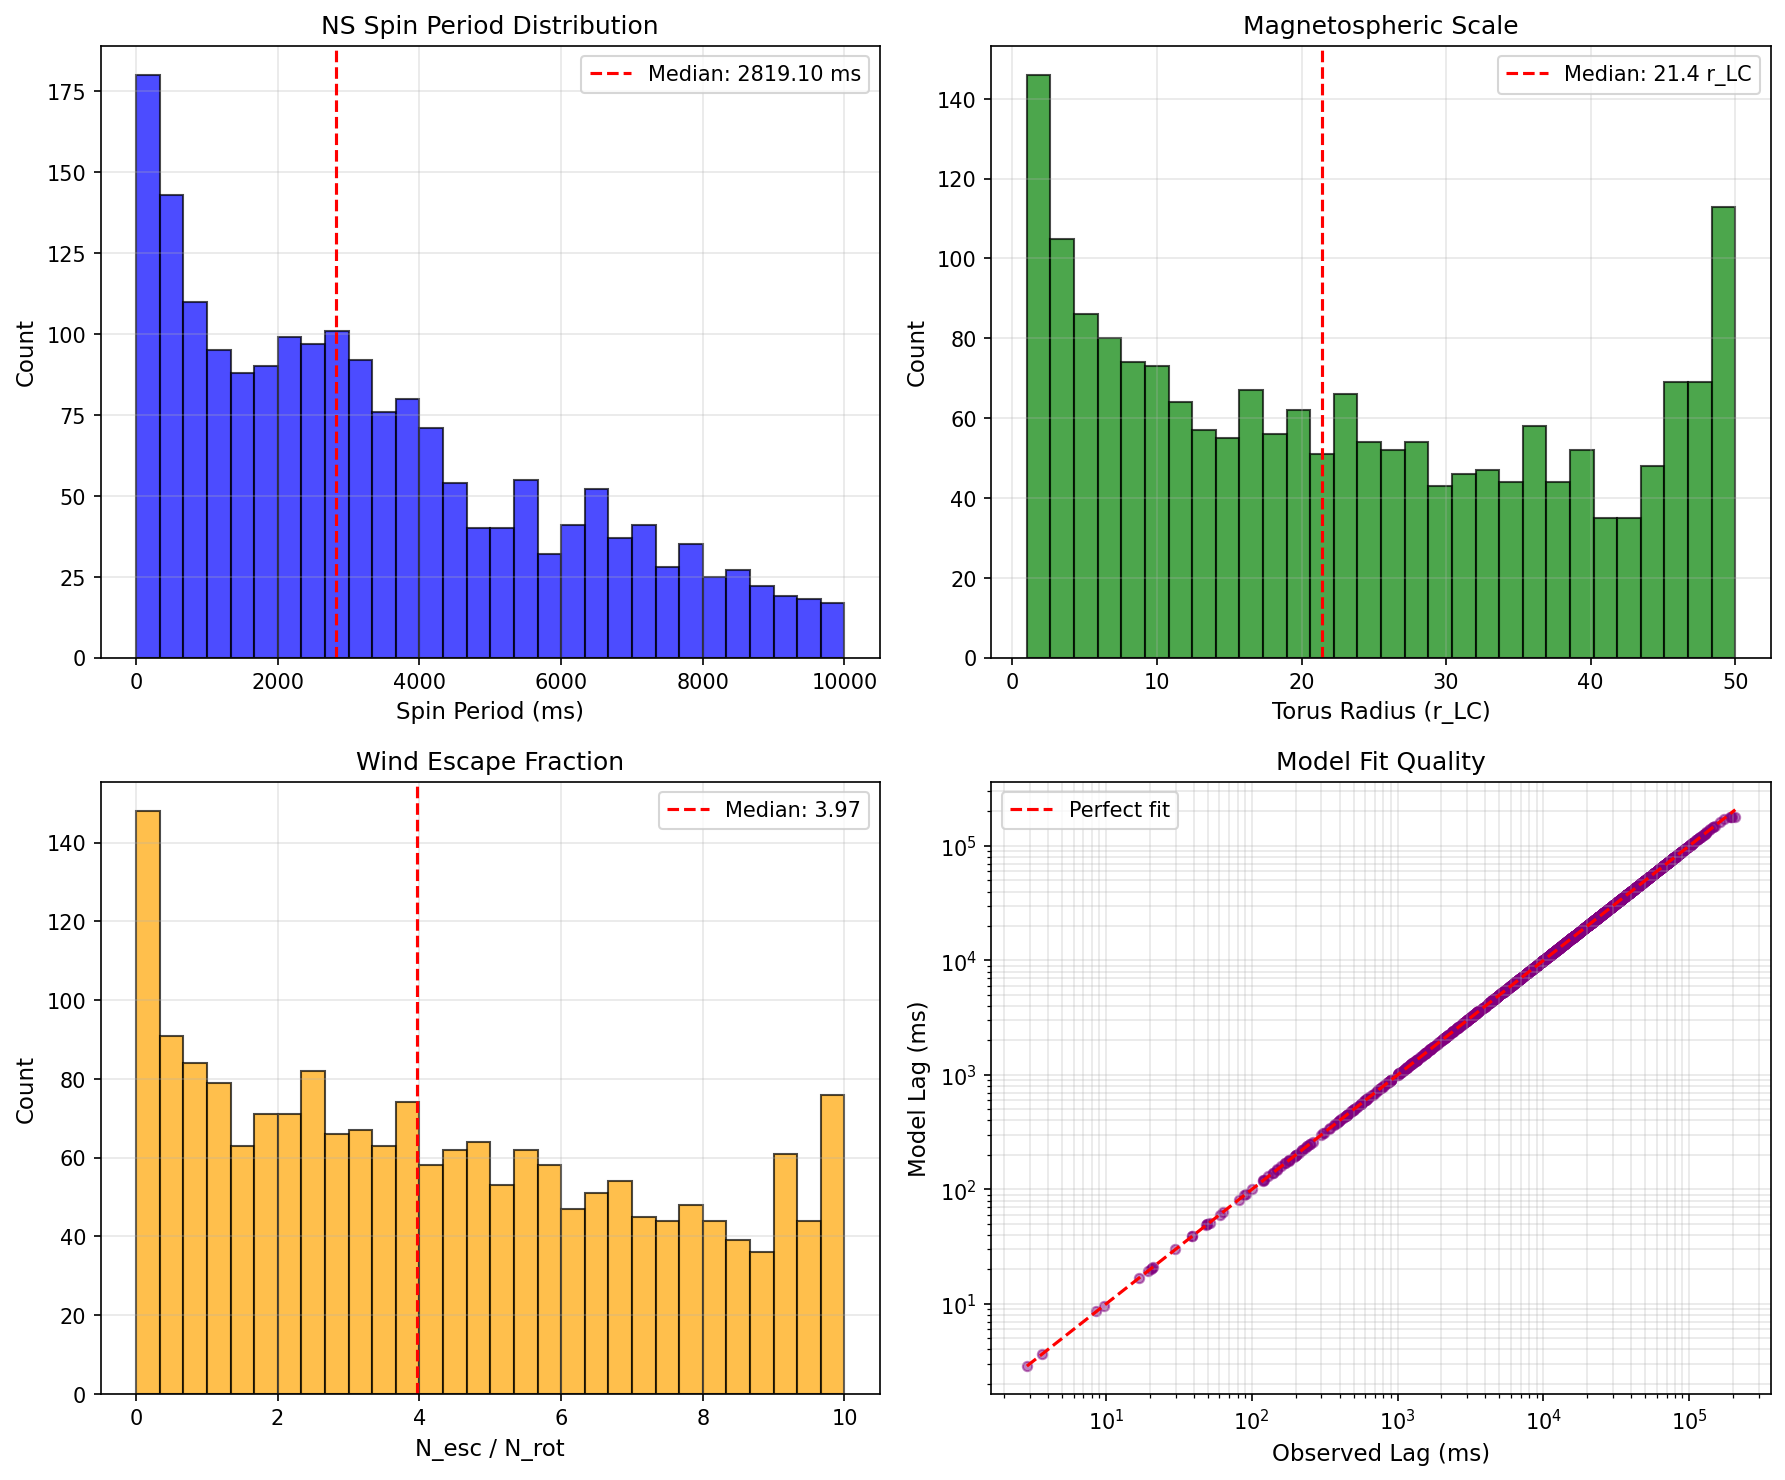
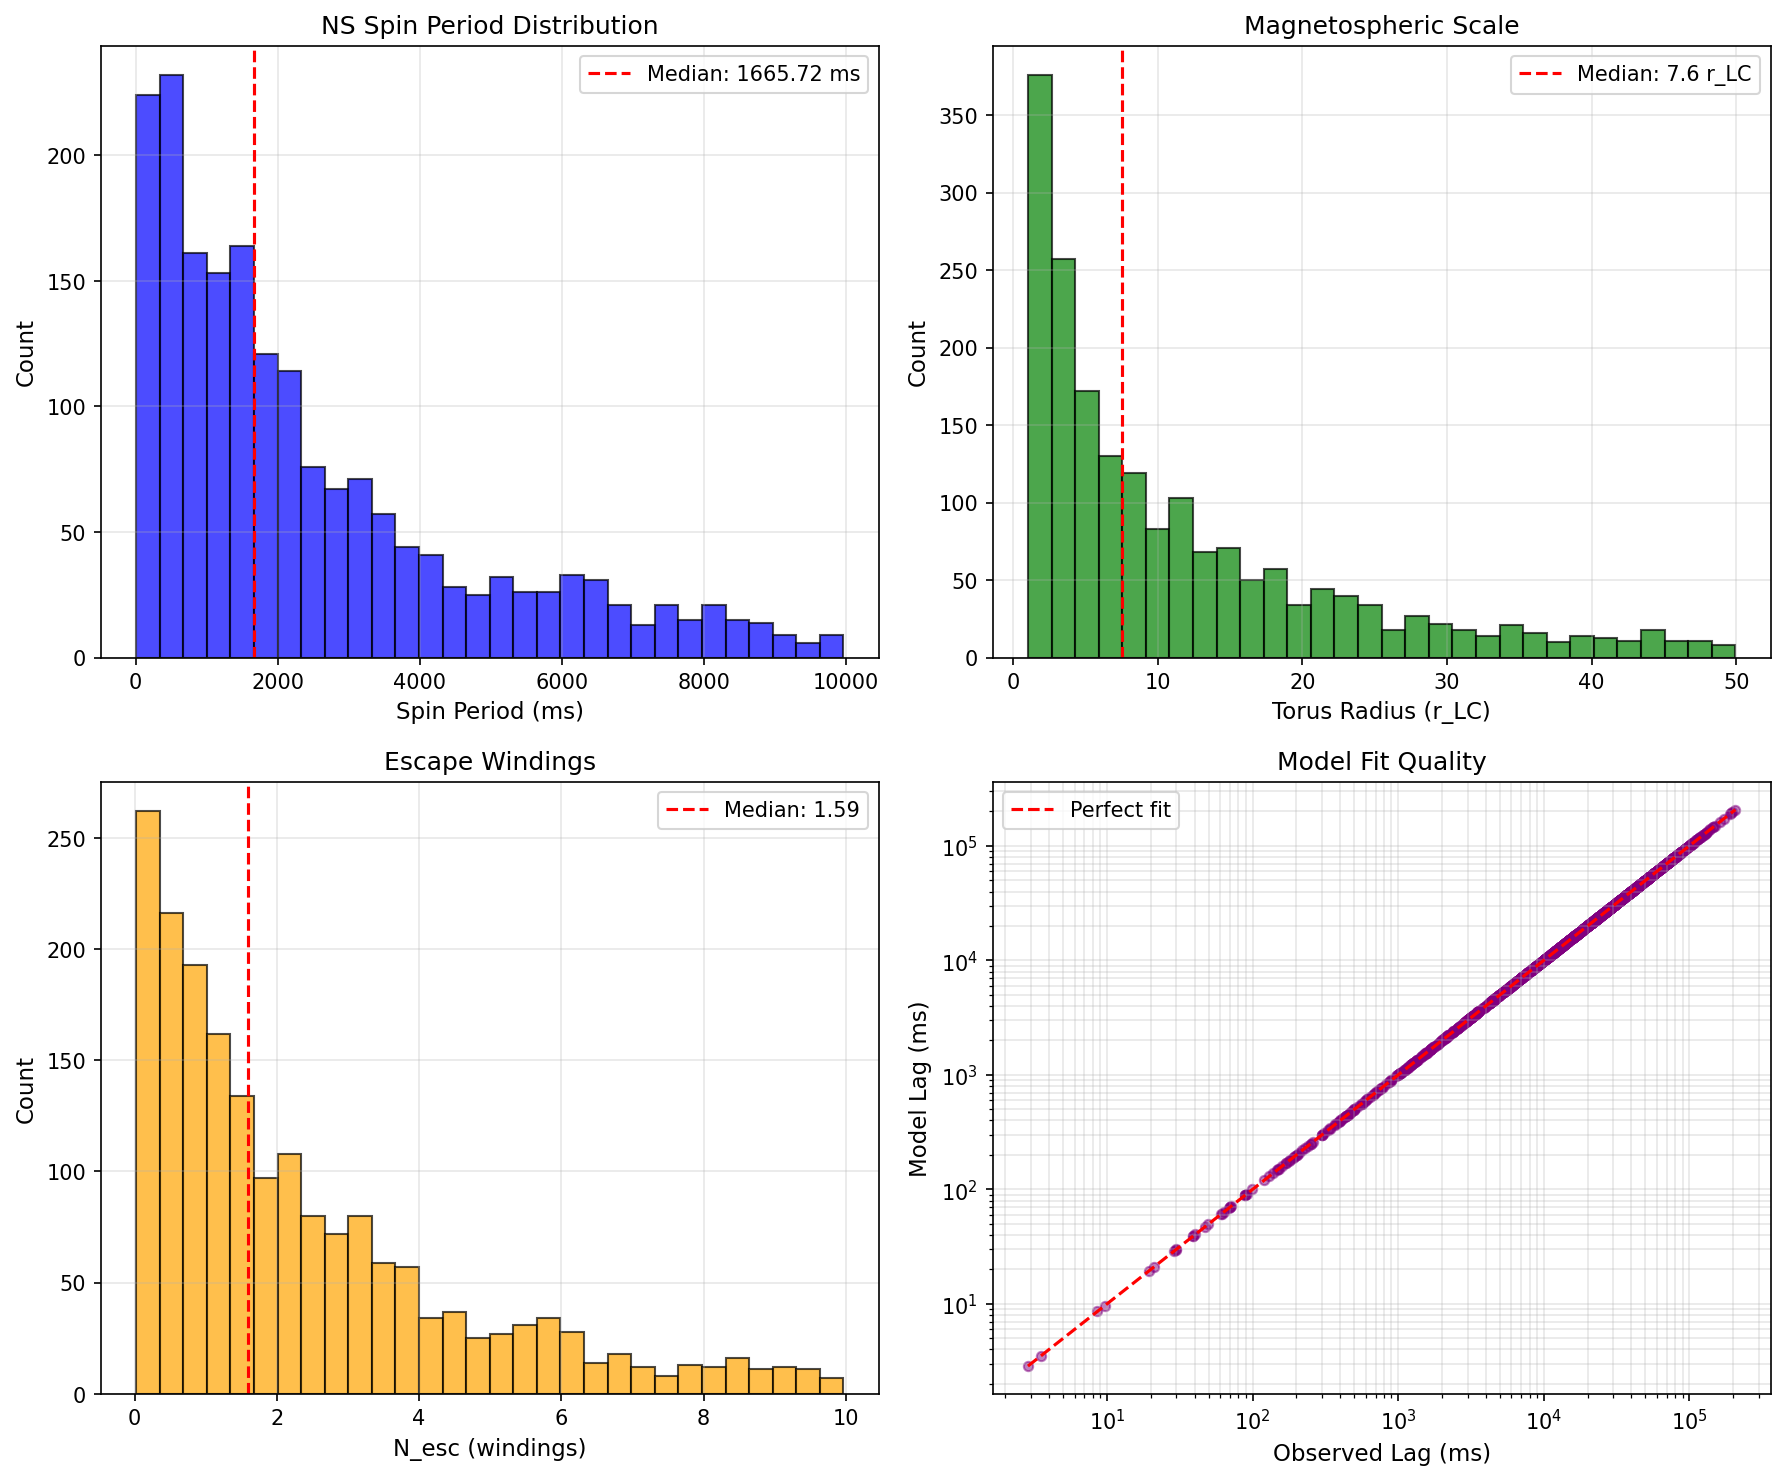
Init

diff --git a/run_parameter_inversion.py b/run_parameter_inversion.py
@@ -22,7 +22,7 @@ class PhysicalConstants:
 class InversionResult:
     spin_period_ms: float
     torus_radius_units: float
-    escape_fraction: float
+    n_windings: float
     error: float
     lag_model_ms: float
     lag_observed_ms: float
@@ -37,40 +37,54 @@ class PopulationStatistics:
     spin_period_std: float
     torus_radius_median: float
     torus_radius_std: float
-    escape_fraction_median: float
-    escape_fraction_std: float
+    n_windings_median: float
+    n_windings_std: float
     mean_error: float
 
 
 class MagnetosphericPhysics:
+    """
+    Magnetospheric wind model for GRB spectral lag.
+    
+    Photons scatter through wound magnetic field structures surrounding
+    nascent neutron stars. Delay arises from N windings through toroidal
+    field at radius r_torus. See Eq. 12 in paper.
+    """
+    
     def __init__(self):
         self.constants = PhysicalConstants()
 
     def compute_light_cylinder_radius(self, spin_period_ms: float) -> float:
+        """r_LC = c * P / (2π) — radius where corotation velocity equals c"""
         spin_period_s = spin_period_ms * 1e-3
         return self.constants.SPEED_OF_LIGHT_CM_S * spin_period_s / (2 * np.pi)
 
-    def compute_propagation_time(self, torus_radius_cm: float) -> float:
-        return torus_radius_cm / self.constants.SPEED_OF_LIGHT_CM_S
-
-    def compute_rotation_time(self, spin_period_ms: float, escape_fraction: float) -> float:
-        spin_period_s = spin_period_ms * 1e-3
-        return escape_fraction * spin_period_s
+    def compute_winding_delay(self, torus_radius_cm: float, n_windings: float) -> float:
+        """Δt = N × 2πr_torus / c — time for N windings through toroidal field"""
+        circumference = 2 * np.pi * torus_radius_cm
+        return n_windings * circumference / self.constants.SPEED_OF_LIGHT_CM_S
 
     def compute_total_lag_ms(
         self,
         spin_period_ms: float,
         torus_radius_units: float,
-        escape_fraction: float
+        n_windings: float
     ) -> float:
-        light_cylinder_radius = self.compute_light_cylinder_radius(
-            spin_period_ms)
-        torus_radius_cm = torus_radius_units * light_cylinder_radius
-        propagation_time = self.compute_propagation_time(torus_radius_cm)
-        rotation_time = self.compute_rotation_time(
-            spin_period_ms, escape_fraction)
-        total_lag_s = propagation_time + rotation_time
-        return total_lag_s * 1e3
+        """
+        Total spectral lag from magnetospheric scattering.
+        
+        Parameters:
+            spin_period_ms: Neutron star rotation period [ms]
+            torus_radius_units: Torus radius in units of r_LC
+            n_windings: Number of field-line windings before escape (N_esc)
+        
+        Returns:
+            Spectral lag [ms]
+        """
+        r_LC = self.compute_light_cylinder_radius(spin_period_ms)
+        r_torus_cm = torus_radius_units * r_LC
+        delay_s = self.compute_winding_delay(r_torus_cm, n_windings)
+        return delay_s * 1e3
 
 
 class ParameterBounds:
@@ -78,24 +92,24 @@ class ParameterBounds:
         self,
         spin_period_range: Tuple[float, float] = (0.5, 10000),
         torus_radius_range: Tuple[float, float] = (1, 50),
-        escape_fraction_range: Tuple[float, float] = (0, 10)
+        n_windings_range: Tuple[float, float] = (0, 10)
     ):
         self.spin_period_range = spin_period_range
         self.torus_radius_range = torus_radius_range
-        self.escape_fraction_range = escape_fraction_range
+        self.n_windings_range = n_windings_range
 
     def as_list(self) -> List[Tuple[float, float]]:
         return [
             self.spin_period_range,
             self.torus_radius_range,
-            self.escape_fraction_range
+            self.n_windings_range
         ]
 
     def generate_random_initial_guess(self) -> np.ndarray:
         return np.array([
             np.random.uniform(*self.spin_period_range),
             np.random.uniform(*self.torus_radius_range),
-            np.random.uniform(*self.escape_fraction_range)
+            np.random.uniform(*self.n_windings_range)
         ])
 
 
@@ -105,9 +119,9 @@ class ObjectiveFunction:
         self.observed_lag_ms = observed_lag_ms
 
     def __call__(self, params: np.ndarray) -> float:
-        spin_period_ms, torus_radius_units, escape_fraction = params
+        spin_period_ms, torus_radius_units, n_windings = params
         model_lag = self.physics.compute_total_lag_ms(
-            spin_period_ms, torus_radius_units, escape_fraction
+            spin_period_ms, torus_radius_units, n_windings
         )
         return (model_lag - self.observed_lag_ms) ** 2
 
@@ -153,8 +167,8 @@ class LocalOptimizer:
         return self._create_result(best_result.x, best_result.fun, observed_lag_ms)
 
     def _is_physically_reasonable(self, params: np.ndarray) -> bool:
-        escape_fraction = params[2]
-        return 0 <= escape_fraction <= 10
+        n_windings = params[2]
+        return 0 <= n_windings <= 10
 
     def _create_result(
         self,
@@ -162,14 +176,14 @@ class LocalOptimizer:
         error: float,
         observed_lag_ms: float
     ) -> InversionResult:
-        spin_period_ms, torus_radius_units, escape_fraction = params
+        spin_period_ms, torus_radius_units, n_windings = params
         return InversionResult(
             spin_period_ms=spin_period_ms,
             torus_radius_units=torus_radius_units,
-            escape_fraction=escape_fraction,
+            n_windings=n_windings,
             error=error,
             lag_model_ms=self.physics.compute_total_lag_ms(
-                spin_period_ms, torus_radius_units, escape_fraction
+                spin_period_ms, torus_radius_units, n_windings
             ),
             lag_observed_ms=observed_lag_ms
         )
@@ -214,8 +228,8 @@ class GlobalOptimizer:
         return self._create_result(result.x, result.fun, observed_lag_ms)
 
     def _is_physically_reasonable(self, params: np.ndarray) -> bool:
-        escape_fraction = params[2]
-        return 0 <= escape_fraction <= 10
+        n_windings = params[2]
+        return 0 <= n_windings <= 10
 
     def _create_result(
         self,
@@ -223,14 +237,14 @@ class GlobalOptimizer:
         error: float,
         observed_lag_ms: float
     ) -> InversionResult:
-        spin_period_ms, torus_radius_units, escape_fraction = params
+        spin_period_ms, torus_radius_units, n_windings = params
         return InversionResult(
             spin_period_ms=spin_period_ms,
             torus_radius_units=torus_radius_units,
-            escape_fraction=escape_fraction,
+            n_windings=n_windings,
             error=error,
             lag_model_ms=self.physics.compute_total_lag_ms(
-                spin_period_ms, torus_radius_units, escape_fraction
+                spin_period_ms, torus_radius_units, n_windings
             ),
             lag_observed_ms=observed_lag_ms
         )
@@ -304,8 +318,8 @@ class PopulationAnalyzer:
             spin_period_std=df_solutions['spin_period_ms'].std(),
             torus_radius_median=df_solutions['torus_radius_units'].median(),
             torus_radius_std=df_solutions['torus_radius_units'].std(),
-            escape_fraction_median=df_solutions['escape_fraction'].median(),
-            escape_fraction_std=df_solutions['escape_fraction'].std(),
+            n_windings_median=df_solutions['n_windings'].median(),
+            n_windings_std=df_solutions['n_windings'].std(),
             mean_error=df_solutions['error'].mean()
         )
 
@@ -316,7 +330,7 @@ class PopulationAnalyzer:
             {
                 'spin_period_ms': s.spin_period_ms,
                 'torus_radius_units': s.torus_radius_units,
-                'escape_fraction': s.escape_fraction,
+                'n_windings': s.n_windings,
                 'error': s.error,
                 'lag_model_ms': s.lag_model_ms,
                 'lag_observed_ms': s.lag_observed_ms
@@ -339,7 +353,7 @@ class PopulationPlotter:
 
         self._plot_spin_period_distribution(axes[0, 0])
         self._plot_torus_radius_distribution(axes[0, 1])
-        self._plot_escape_fraction_distribution(axes[1, 0])
+        self._plot_n_windings_distribution(axes[1, 0])
         self._plot_fit_quality(axes[1, 1])
 
         plt.tight_layout()
@@ -392,24 +406,24 @@ class PopulationPlotter:
         ax.legend()
         ax.grid(alpha=0.3)
 
-    def _plot_escape_fraction_distribution(self, ax):
+    def _plot_n_windings_distribution(self, ax):
         ax.hist(
-            self.df['escape_fraction'],
+            self.df['n_windings'],
             bins=30,
             alpha=0.7,
             color='orange',
             edgecolor='black'
         )
-        median_value = self.df['escape_fraction'].median()
+        median_value = self.df['n_windings'].median()
         ax.axvline(
             median_value,
             color='red',
             linestyle='--',
             label=f'Median: {median_value:.2f}'
         )
-        ax.set_xlabel('N_esc / N_rot', fontsize=11)
+        ax.set_xlabel('N_esc (windings)', fontsize=11)
         ax.set_ylabel('Count', fontsize=11)
-        ax.set_title('Wind Escape Fraction', fontsize=12)
+        ax.set_title('Escape Windings', fontsize=12)
         ax.legend()
         ax.grid(alpha=0.3)
 
@@ -488,7 +502,7 @@ class ParameterInversionStudy:
         print(
             f"  Torus scale: {self.statistics.torus_radius_median:.1f} ± {self.statistics.torus_radius_std:.1f} r_LC")
         print(
-            f"  Escape fraction: {self.statistics.escape_fraction_median:.2f} ± {self.statistics.escape_fraction_std:.2f}")
+            f"  Escape fraction: {self.statistics.n_windings_median:.2f} ± {self.statistics.n_windings_std:.2f}")
         print(f"  Mean fit error: {self.statistics.mean_error:.2e}")
 
 

diff --git a/run_analysis.py b/run_analysis.py
@@ -394,7 +394,7 @@ class SampleStatistics:
 
         try:
             shape, loc, scale = stats.expon.fit(positive_values, floc=0)
-        except:
+        except Exception:
             return {'distribution_name': distribution_name, 'fit_failed': True}
 
         ks_stat, ks_pval = stats.kstest(
@@ -920,38 +920,6 @@ class GRBStudy:
             'avg_half_life': avg_half_life,
             'tau_obs': avg_scale/1000
         }
-
-    def winding_calculator(self, tau_obs, T_burst=30.0, c=3e10):
-        """
-        Enhanced magnetospheric lag calculator with optimization.
-        Given observed lag, finds best-fit star parameters via minimization.
-        """
-        from scipy.optimize import minimize
-
-        # Physical constants
-        sigma_T = 6.65e-25  # Thomson cross-section (cm^2)
-        m_e_c2 = 511.0      # electron rest mass energy (keV)
-
-        # Energy bands
-        E_soft = 30.0   # keV
-        E_hard = 300.0  # keV
-
-        # Scattering cross-sections (Klein-Nishina correction)
-        def klein_nishina(E_keV):
-            x = E_keV / m_e_c2
-            return sigma_T / (1 + x)
-
-        sigma_soft = klein_nishina(E_soft)
-        sigma_hard = klein_nishina(E_hard)
-
-        print("\n" + "="*70)
-        print("MAGNETOSPHERIC LAG CALCULATOR (OPTIMIZATION)")
-        print("="*70)
-        print(f"\nINPUT:")
-        print(f"  Observed lag:              τ_obs = {tau_obs:.2f} s")
-        print(f"  Burst duration:            T_burst = {T_burst:.1f} s")
-        print(f"  Soft band:                 E_soft = {E_soft:.0f} keV")
-        print(f"  Hard band:                 E_hard = {E_hard:.0f} keV")
 
     def winding_calculator(self, tau_obs, T_burst=30.0, c=3e10):
         """Simple grid search for magnetosphere parameters."""
